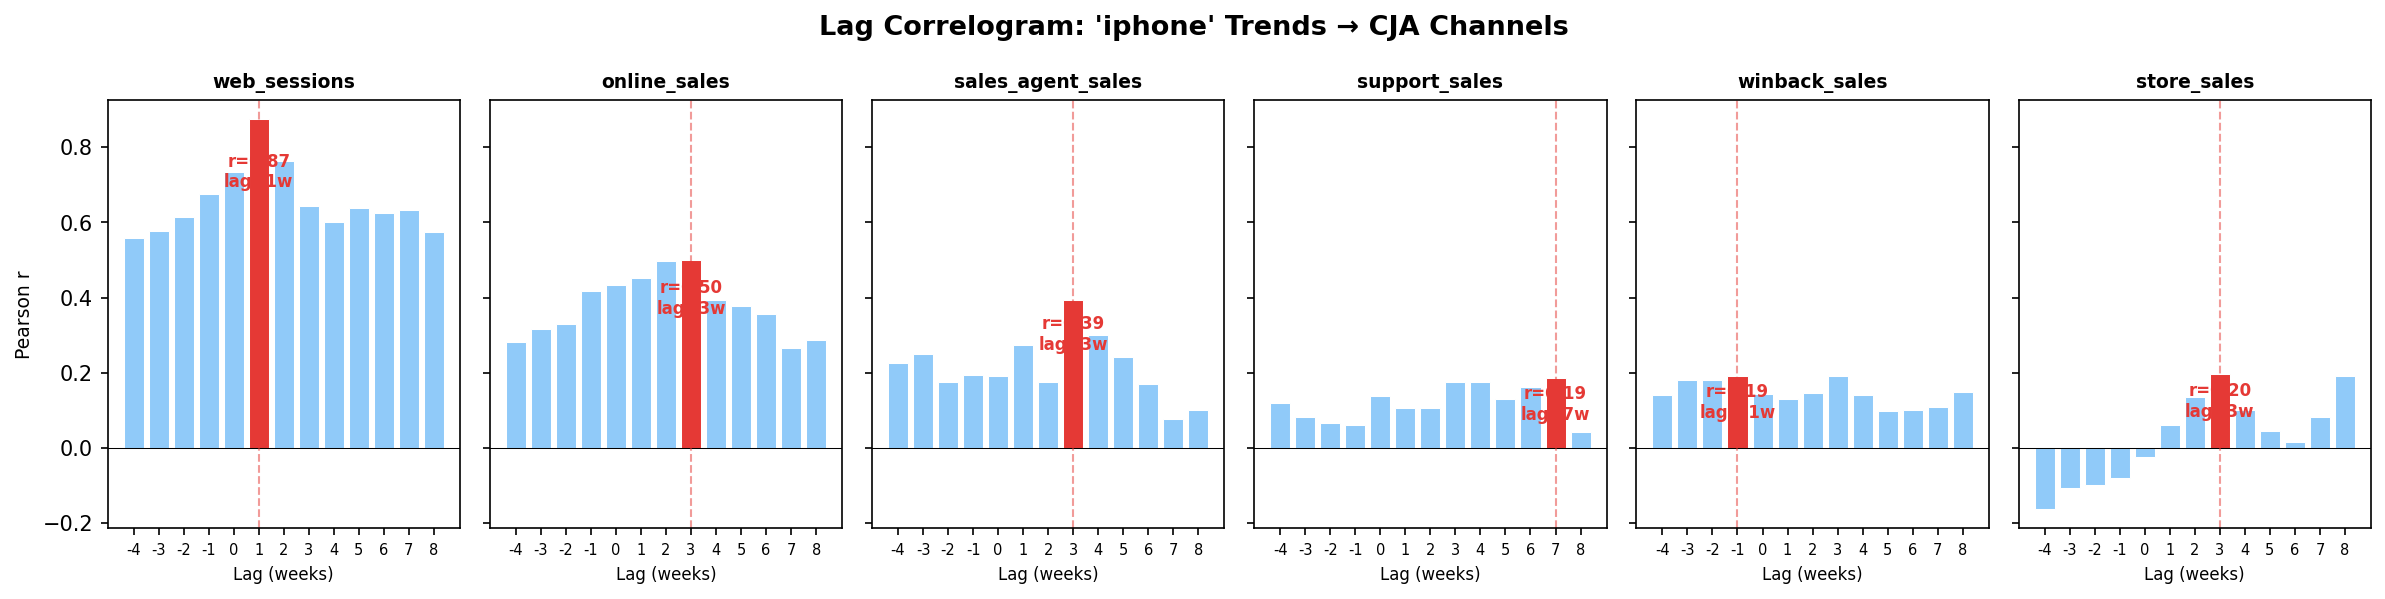
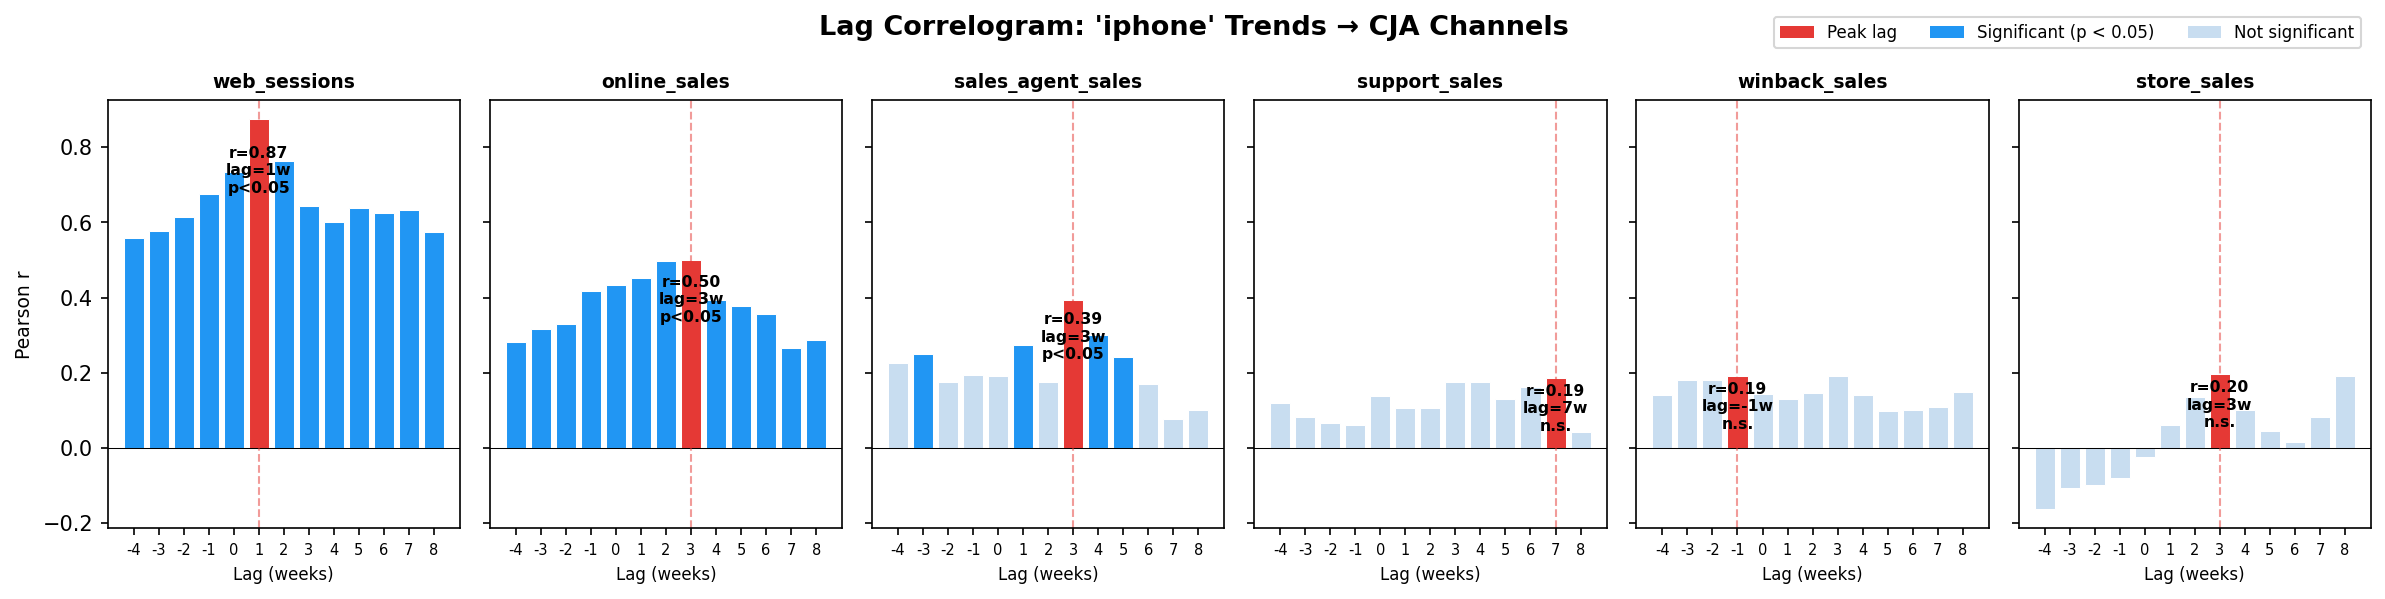
push

diff --git a/_posts/2026-06-21-google-trends-cja-channel-lag.md b/_posts/2026-06-21-google-trends-cja-channel-lag.md
@@ -508,14 +508,16 @@ Reminds me of an A/B tests that I once ran. The traffic / data was very low. But
 
 ### The correlogram: reading the chart
 
-The correlogram plots **r** on the **Y axis** and **lag (weeks)** on the **X axis**. Each bar is one lag value. The red bar is the peak.
+If you scroll further down, you'll see a correlogram that plots **r** on the **Y axis** and **lag (weeks)** on the **X axis**. Each bar is one lag value. The red bar is the peak.
 
-The script gives you one chart per keyword, and from it you read two things. First, how *tall* the peak is. That's the strength (r), and it comes with a p-value telling you whether it's real. This part is a calculated number. Second, how *sharp* the peak is. That's just you looking at the shape to judge whether the lag is pinned to one specific week or smeared across several. This part is a judgment call you make by looking, not a statistic the script calculates for you.
+The script gives you one chart per keyword, and from it you read two things. First, how *tall* the peak is. That's the strength (r), which is what the height of every bar shows. Second, how *sharp* the peak is. That's just you looking at the shape to judge whether the lag is pinned to one specific week or smeared across several. This part is a judgment call you make by looking, not a statistic the script calculates for you.
+
+The p-value (the "can I trust this" number from earlier) is also visible. Furthermore, a solid blue bar is statistically significant (p < 0.05). A faded bar is not. The red peak bar also gets a small label telling you whether it met the p < 0.05 requirement or not (shown as "n.s." for not significant). So the *colour* carries the significance, and the *height* carries the strength. The full p-values for every pairing are also printed in the terminal table when you run the script.
 
 So here's my interpretation:
 
-- **Sharp single peak**: the lead time is precise. The channel follows Trends at one identifiable lag, and I can trust the specific number of weeks. High confidence.
-- **Broad plateau**: there's a relationship, but it's spread across several weeks. so the exact lag is less trustworthy even if r is high.
+- **Sharp single peak**: the lead time is precise. The channel follows Trends at one identifiable lag, and I can trust the specific number of weeks. High confidence if it meets p < 0.05.
+- **Broad plateau**: there's a relationship, but it's spread across several weeks.
 - **Flat across all lags**: no relationship at any lag. This keyword doesn't predict this channel. 
 - **Peak at a negative lag**: the CJA channel is moving *before* the Trends signal. The channel is a leading indicator, not a lagging one.
 
@@ -541,11 +543,11 @@ The channel lag ranking is the business output. One bar per channel, length = we
 
 <img class="datadiaryimage" src="{{ "/assets/images/trends-lag-ranking-iphone.png" | relative_url }}" alt="Channel lag ranking for iphone keyword">
 
-Here's what the `iphone` keyword actually showed with realistic dummy data. Note that a lag value is only meaningful when the correlation is strong enough to act on, a lag of 7 weeks with r = 0.19 is not a finding, it's noise with a number attached to it.
+Here's what the `iphone` keyword actually showed with **dummy data**. Note that a lag value is only meaningful when the correlation is strong enough to act on, a lag of 7 weeks with r = 0.19 is not a finding, it's noise with a number attached to it.
 
 | Channel | Lag | Correlation | Usable? |
 |---|---|---|---|
-| Web sessions | 1 week | r = 0.87 **strong** | ✓ Yes. Clear, consistent signal |
+| Web sessions | 1 week | r = 0.87 **strong** | ✓ Yes. consistent signal |
 | Online sales | 3 weeks | r = 0.50 **moderate** | ✓ Directionally useful maybe, but noisy |
 | Sales agent | 3 weeks | r = 0.39 **weak** | △ Faint signal: worth monitoring, not planning around |
 | Store | 3 weeks | r = 0.20 **weak** | ✗ No: physical visits don't follow search interest in this data |
@@ -579,7 +581,7 @@ Real data will problably be much noisier. Some pairings that look strong with du
 
 ## The CJA angle worth highlighting
 
-What this project demonstrates is that cross-channel CJA data isn't only useful for journey analysis and attribution. It can serve as the input to any time-series comparison, demand forecasting, channel lag modelling, seasonality decomposition, anomaly detection.
+What this project demonstrates is that cross-channel CJA data isn't only useful for journey analysis and attribution within Workspace. It can serve as the input to any time-series comparison, demand forecasting, channel lag modelling, seasonality decomposition, anomaly detection.
 
 The data is already connected. The question is what you do with it.
 
